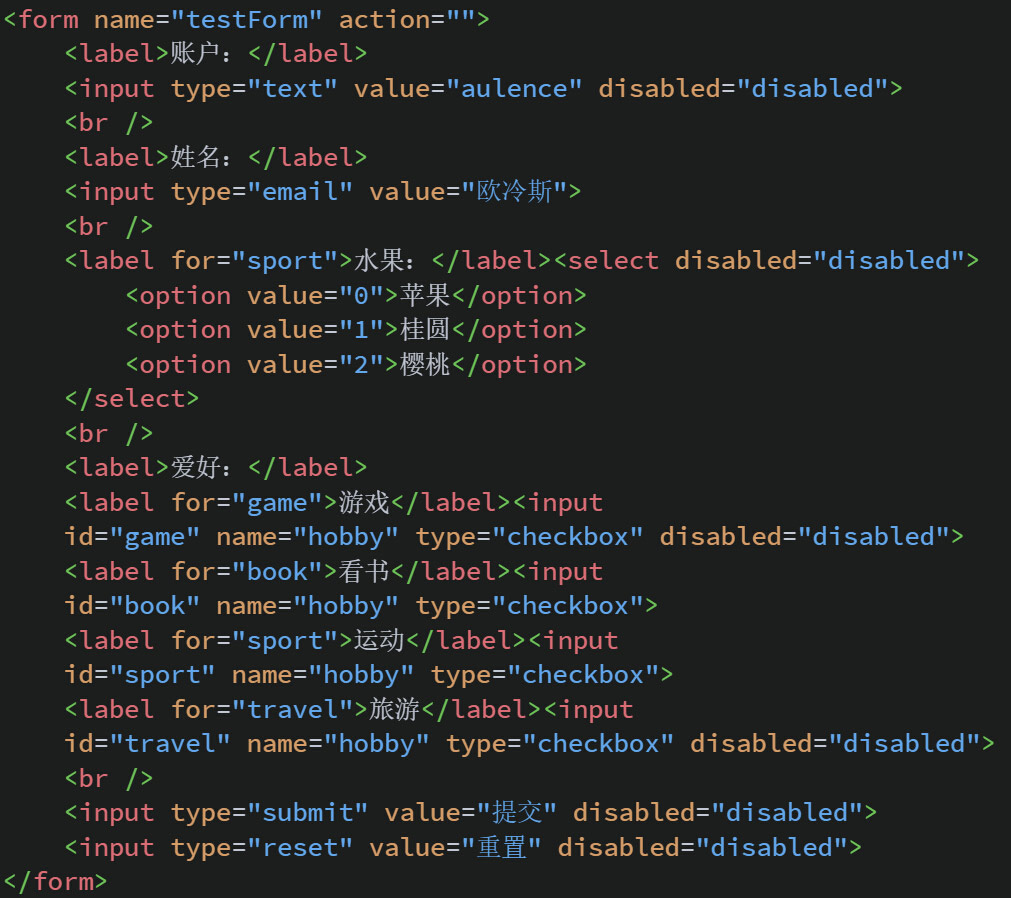
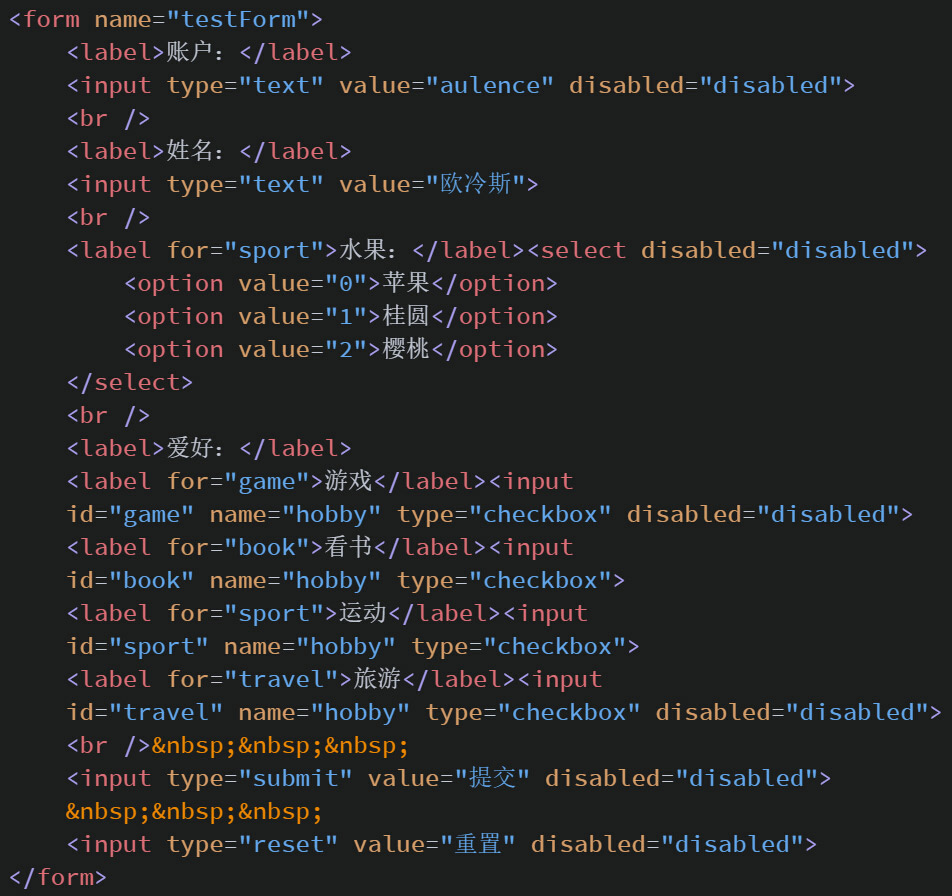
精简了两处代码和对应的截图

Changed region(s): [[0.0, 0.0, 0.9748, 1.0]]

diff --git a/html-pages/html/codeEffect/code-37.html b/html-pages/html/codeEffect/code-37.html
@@ -14,7 +14,7 @@
     </style>
 </head>
 <body>
-    <form name="testForm" action="">
+    <form name="testForm">
         <label>账户：</label>
         <input type="text" value="aulence" readonly="readonly">
         <br />

diff --git a/html-pages/html/codeEffect/code-38.html b/html-pages/html/codeEffect/code-38.html
@@ -17,7 +17,7 @@
     </style>
 </head>
 <body>
-    <form name="testForm" action="">
+    <form name="testForm">
         <label>账户：</label>
         <input type="text" value="aulence" disabled="disabled">
         <br />
